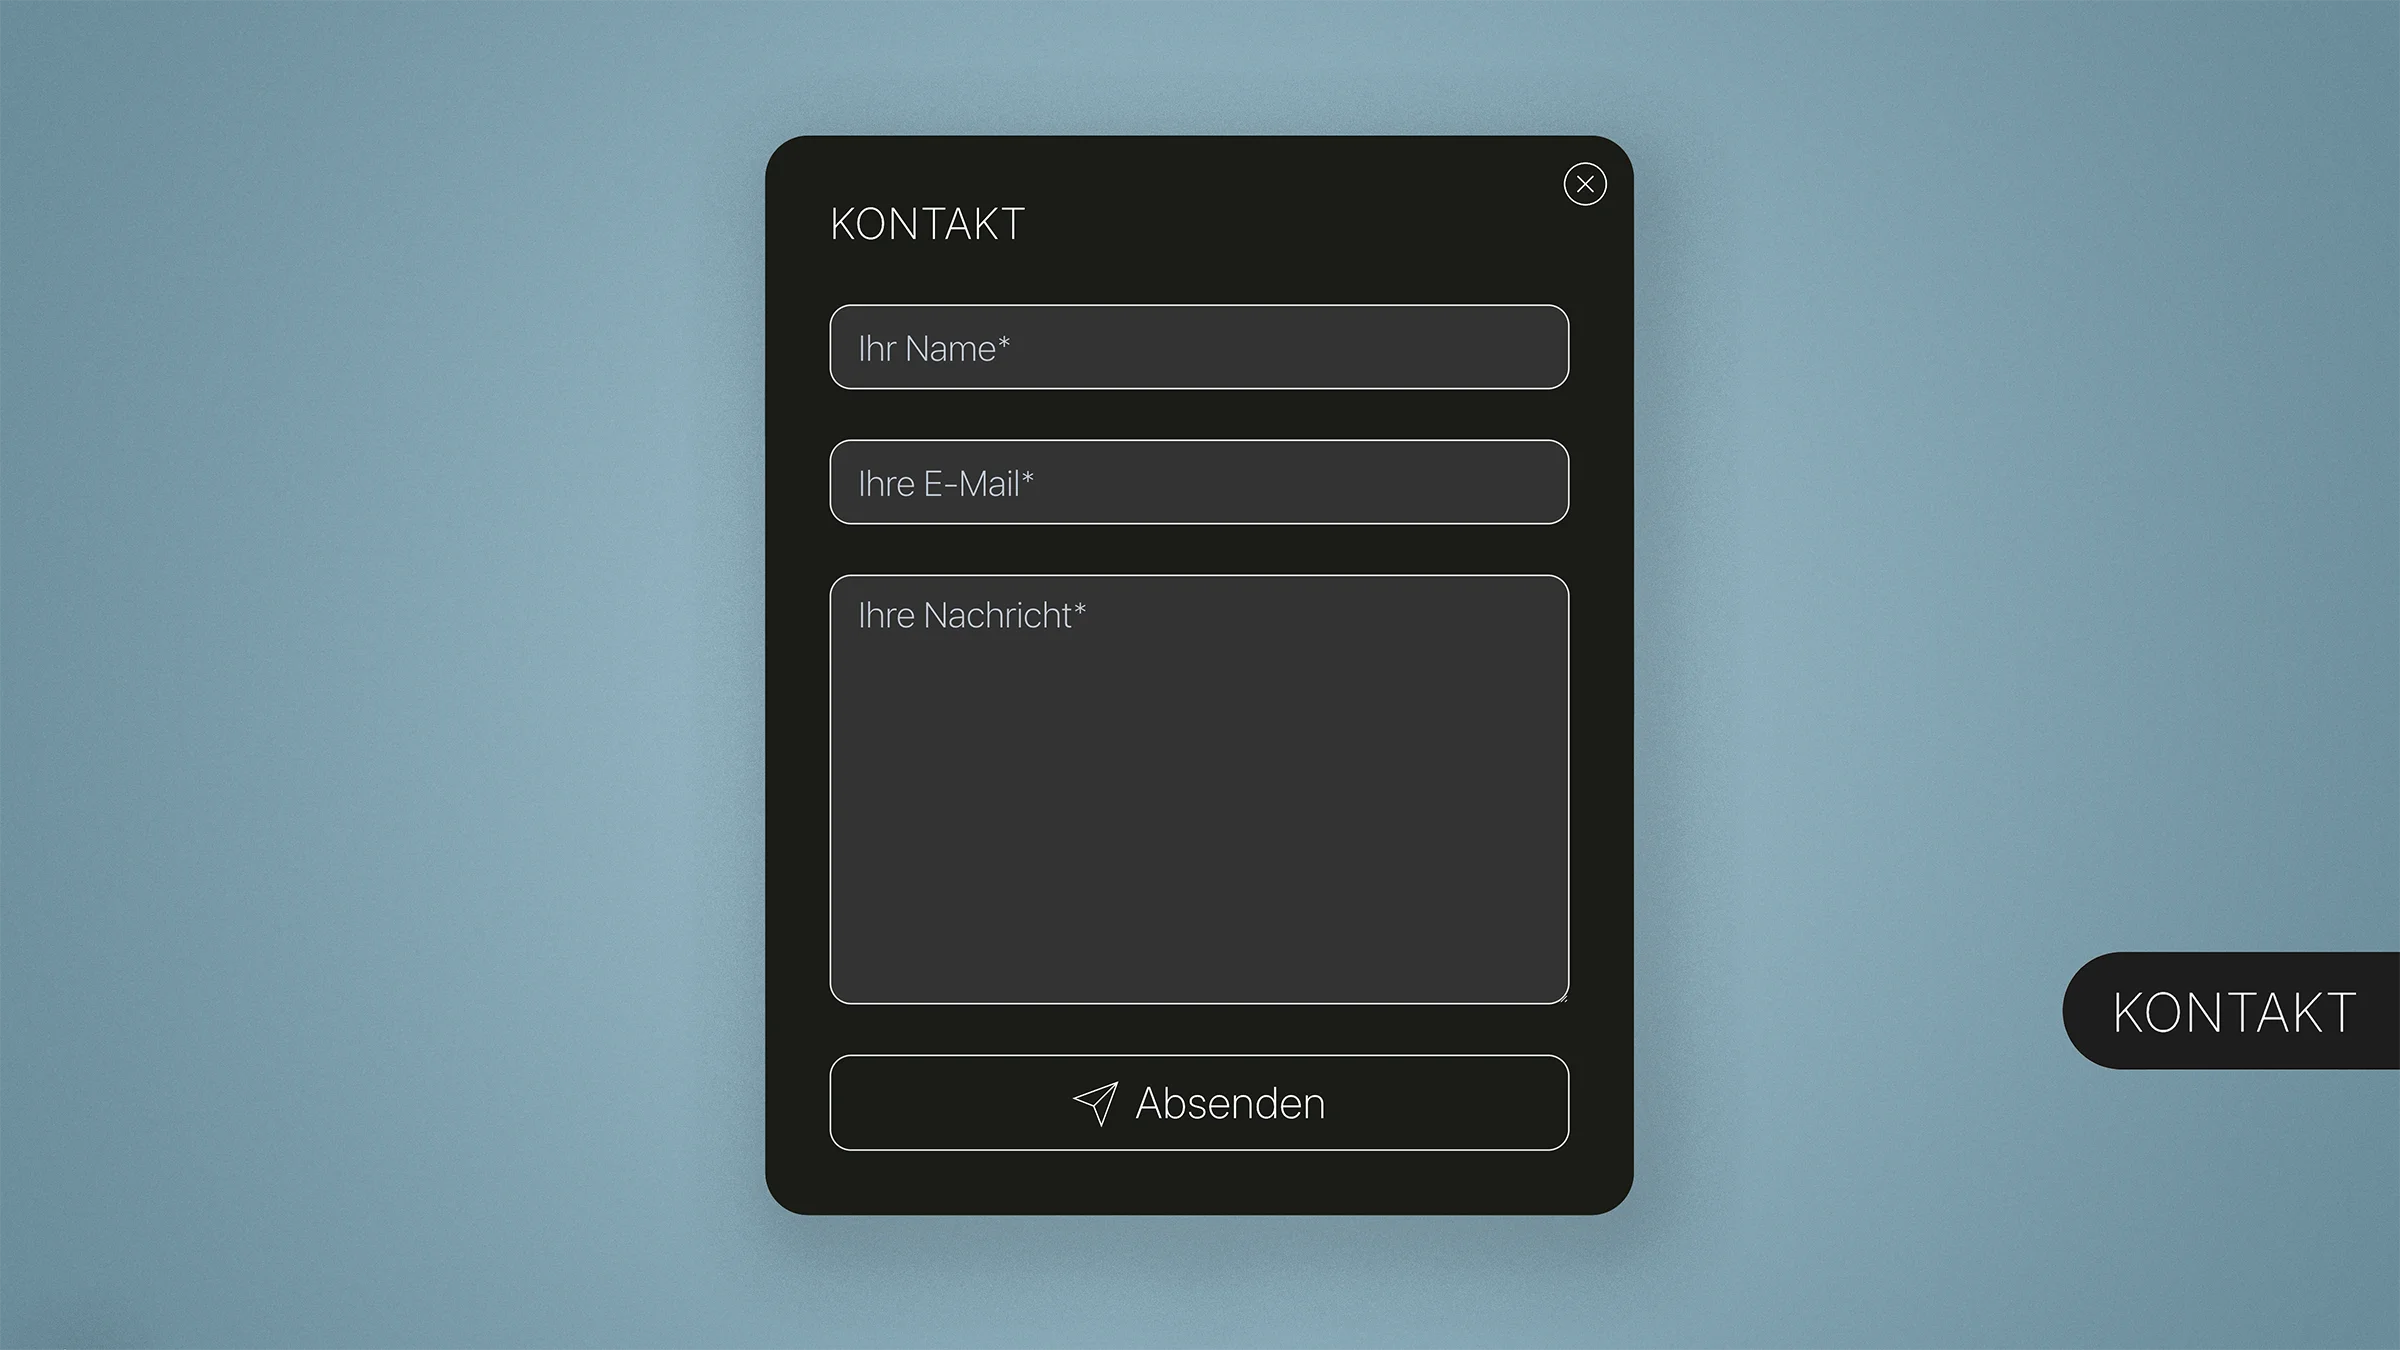
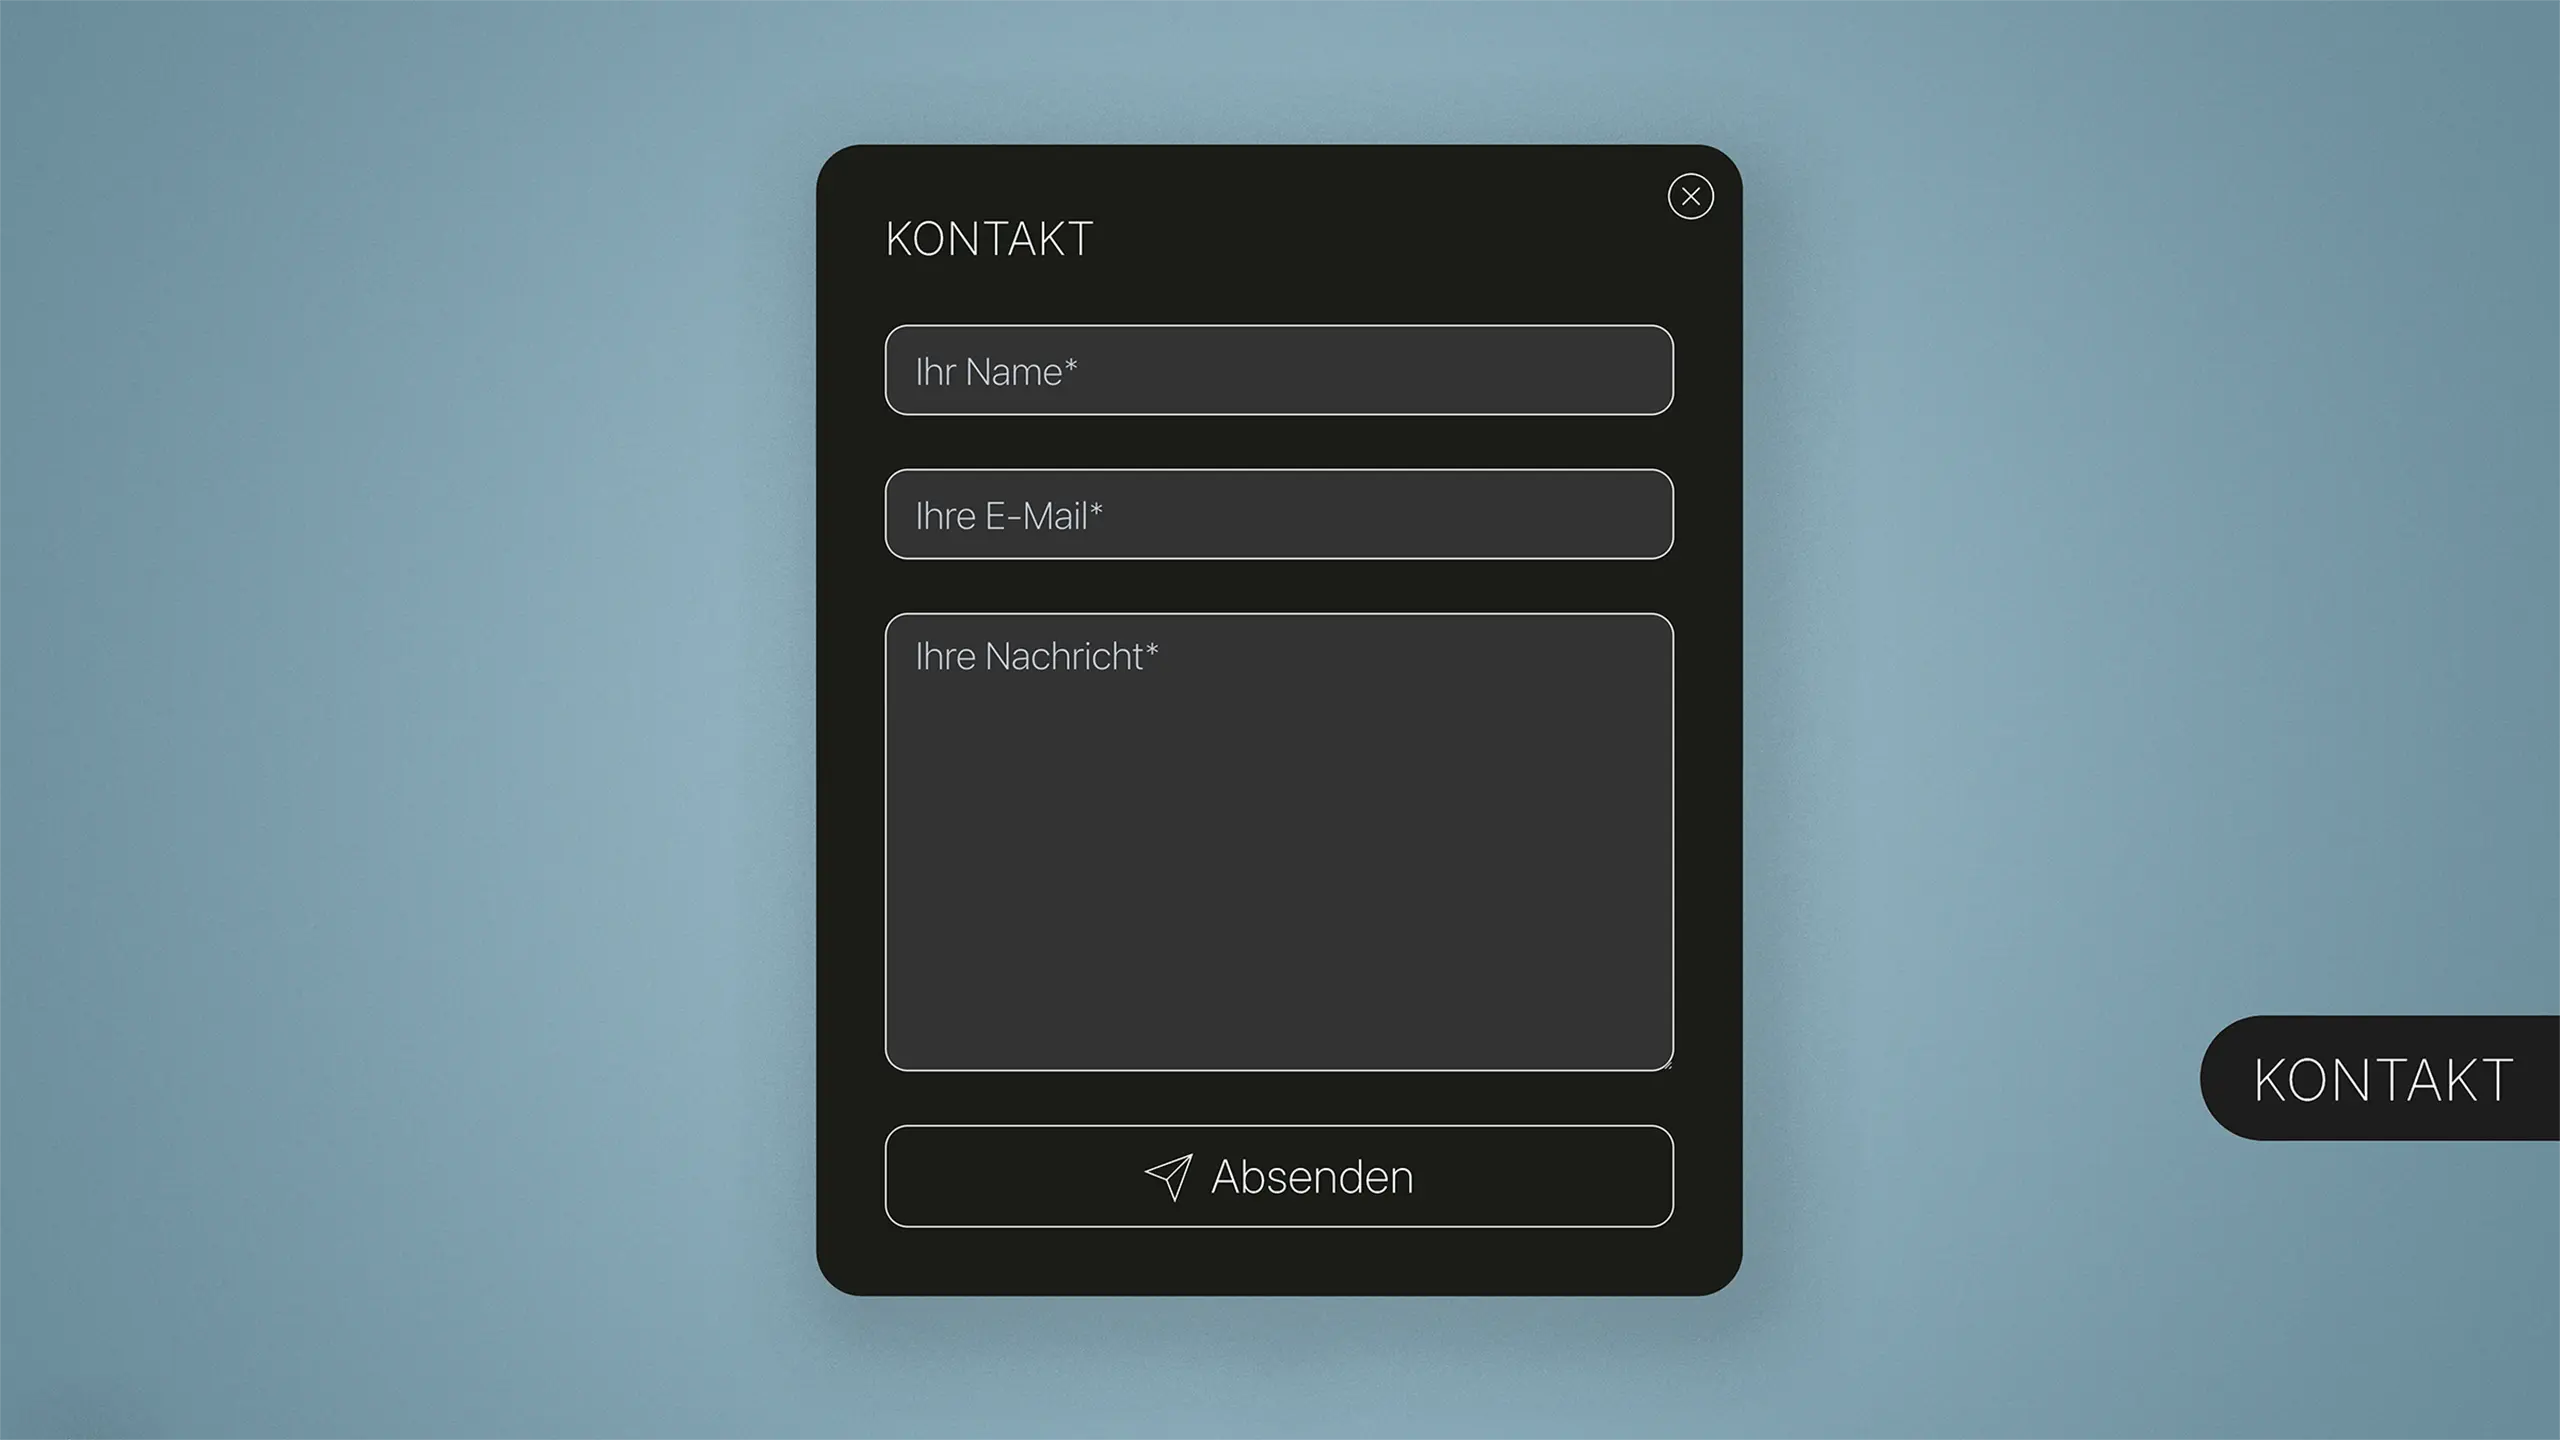
von png auf webp umstellen

Changed region(s): [[0.4688, 0.8089, 0.5312, 0.84], [0.3438, 0.1556, 0.4062, 0.1867]]

diff --git a/index.html b/index.html
@@ -108,7 +108,7 @@
 						class="card"
 						href="https://github.com/ulrich-digital/ud-personal-card-block"
 					>
-						<img src="./assets/ud-personal-card.png" />
+						<img src="./assets/ud-personal-card.webp" />
 						<h3>Personal Card Block</h3>
 						<p>
 							Block zur Darstellung von Personenkarten mit Bild
@@ -119,7 +119,7 @@
 						class="card"
 						href="https://github.com/ulrich-digital/ud-team-cards-block"
 					>
-						<img src="./assets/ud-team-card-block.png" />
+						<img src="./assets/ud-team-card-block.webp" />
 						<h3>Team Cards Block</h3>
 						<p>
 							Container- und Karten-Block zur Darstellung von
@@ -155,7 +155,7 @@
 						class="card"
 						href="https://github.com/ulrich-digital/ud-card-grid"
 					>
-						<img src="./assets/ud-card-grid.png" />
+						<img src="./assets/ud-card-grid.webp" />
 						<h3>Card Grid Block</h3>
 						<p>
 							Container- und Karten-Block für ein flexibles Grid
@@ -167,7 +167,7 @@
 						class="card"
 						href="https://github.com/ulrich-digital/ud-editorial-layout-block"
 					>
-						<img src="./assets/ud-editorial-layout-block.png" />
+						<img src="./assets/ud-editorial-layout-block.webp" />
 						<h3>Editorial Layout Block</h3>
 						<p>
 							Layout-Block zur freien Anordnung von
@@ -205,7 +205,7 @@
 						class="card"
 						href="https://github.com/ulrich-digital/ud-muotamap-block"
 					>
-						<img src="./assets/ud-muotamap.png" />
+						<img src="./assets/ud-muotamap.webp" />
 						<h3>MuotaMap Block</h3>
 						<p>
 							Interaktiver Karten-Block auf Basis von Leaflet.js.
@@ -218,7 +218,7 @@
 						class="card"
 						href="https://github.com/ulrich-digital/ud-glattalp-block"
 					>
-						<img src="./assets/ud-glattalp_frontend.png" />
+						<img src="./assets/ud-glattalp_frontend.webp" />
 						<h3>Glattalp Block</h3>
 						<p>
 							Zeigt aktuelle Messwerte der Glattalp (Temperatur,
@@ -230,7 +230,7 @@
 						class="card"
 						href="https://github.com/ulrich-digital/ud-teaser-card-in-cover-block"
 					>
-						<img src="./assets/ud-teaser-card-in-cover.png" />
+						<img src="./assets/ud-teaser-card-in-cover.webp" />
 
 						<h3>Teaser-Card in Cover Block</h3>
 						<p>
@@ -244,7 +244,7 @@
 						class="card"
 						href="https://github.com/ulrich-digital/ud-loop-block-muota"
 					>
-						<img src="./assets/ud-loop-block-muota.png" />
+						<img src="./assets/ud-loop-block-muota.webp" />
 						<h3>Projekte- & Magazin-Loop Block</h3>
 						<p>
 							Dynamischer Loop-Block für Projekte, Magazin &
@@ -256,7 +256,7 @@
 						class="card"
 						href="https://github.com/ulrich-digital/ud-loop-block"
 					>
-						<img src="./assets/ud-loop-block.png" />
+						<img src="./assets/ud-loop-block.webp" />
 						<h3>Loop Block</h3>
 						<p>
 							Gibt Beiträge, Seiten oder CPTs dynamisch im
@@ -268,7 +268,7 @@
 						class="card"
 						href="https://github.com/ulrich-digital/ud-content-for-loop-block"
 					>
-						<img src="./assets/ud-content-for-loop-block.png" />
+						<img src="./assets/ud-content-for-loop-block.webp" />
 						<h3>Content for Loop Block</h3>
 						<p>
 							Universeller Inhalts-Block für Loops wie News,
@@ -301,7 +301,7 @@
 						class="card"
 						href="https://github.com/ulrich-digital/ud-wohnung-block"
 					>
-						<img src="./assets/ud-wohnung-block.png" />
+						<img src="./assets/ud-wohnung-block.webp" />
 						<h3>Wohnung Block</h3>
 						<p>
 							Block zur Darstellung von Ferien- und Mietwohnungen
@@ -313,7 +313,7 @@
 						class="card"
 						href="https://github.com/ulrich-digital/ud-rating-block"
 					>
-						<img src="./assets/ud-rating-block-02.png" />
+						<img src="./assets/ud-rating-block-02.webp" />
 						<h3>Rating Block</h3>
 						<p>
 							Block für Nutzerbewertungen mit 5-Sterne-System und
@@ -338,7 +338,7 @@
 						class="card"
 						href="https://github.com/ulrich-digital/ud-link-block"
 					>
-						<img src="./assets/ud-link-block.png" />
+						<img src="./assets/ud-link-block.webp" />
 						<h3>Link Block</h3>
 						<p>
 							Block für interne, externe und Medien-Links.
@@ -351,7 +351,7 @@
 						class="card"
 						href="https://github.com/ulrich-digital/ud-tagged-links-block"
 					>
-						<img src="./assets/ud-tagged-links-block.png" />
+						<img src="./assets/ud-tagged-links-block.webp" />
 						<h3>Tag basierte Links Block</h3>
 						<p>
 							Zeigt alle Link-Blöcke an, die mit Tags verknüpft
@@ -374,7 +374,7 @@
 						href="https://github.com/ulrich-digital/ud-contact-card-associations-music-block"
 					>
 						<img
-							src="./assets/ud-contact-card-associations-music.png"
+							src="./assets/ud-contact-card-associations-music.webp"
 						/>
 						<h3>Contact Card Block</h3>
 						<p>Zeigt Kontaktinfos zu Vereinen oder Musikgruppen.</p>
@@ -384,7 +384,7 @@
 						class="card"
 						href="https://github.com/ulrich-digital/ud-filter-tag-block"
 					>
-						<img src="./assets/ud-filter-tag-block.png" />
+						<img src="./assets/ud-filter-tag-block.webp" />
 						<h3>Filter Tag Block</h3>
 						<p>
 							Klickbares Filter-Element mit Label und zugewiesenem
@@ -396,7 +396,7 @@
 						class="card"
 						href="https://github.com/ulrich-digital/ud-toggle-container-block"
 					>
-						<img src="./assets/ud-toggle-container-block.png" />
+						<img src="./assets/ud-toggle-container-block.webp" />
 						<h3>Toggle Container Block</h3>
 						<p>
 							Ein Container-Block mit zwei umschaltbaren
@@ -409,7 +409,7 @@
 						class="card"
 						href="https://github.com/ulrich-digital/ud-datetime-block"
 					>
-						<img src="./assets/ud-datetime-block_02.png" />
+						<img src="./assets/ud-datetime-block_02.webp" />
 						<h3>Datetime Block</h3>
 						<p>
 							Block zur Eingabe von Start- und Enddatum mit
@@ -421,7 +421,7 @@
 						class="card"
 						href="https://github.com/ulrich-digital/ud-breadcrumb-block"
 					>
-						<img src="./assets/ud-breadcrumb-block.png" />
+						<img src="./assets/ud-breadcrumb-block.webp" />
 						<h3>Breadcrumb Block</h3>
 						<p>Zeigt den Navigationspfad einer Seite an.</p>
 					</a>
@@ -430,7 +430,7 @@
 						class="card"
 						href="https://github.com/ulrich-digital/ud-projekt-verknuepfen-block"
 					>
-						<img src="./assets/ud-projekt-verknuepfen.png" />
+						<img src="./assets/ud-projekt-verknuepfen.webp" />
 						<h3>Projekt verknüpfen Block</h3>
 						<p>
 							Block zum Verknüpfen von Magazin-Beiträgen mit einem
@@ -443,7 +443,7 @@
 						href="https://github.com/ulrich-digital/ud-link-filter-container-block"
 					>
 						<img
-							src="./assets/ud_link_filter_container_block.png"
+							src="./assets/ud_link_filter_container_block.webp"
 						/>
 						<h3>Link Filter Container Block</h3>
 						<p>
@@ -457,7 +457,7 @@
 						href="https://github.com/ulrich-digital/ud_accordion_filter_container_block"
 					>
 						<img
-							src="./assets/ud_accordion_filter_container_block.png"
+							src="./assets/ud_accordion_filter_container_block.webp"
 						/>
 						<h3>Akkordeon Filter Container Block</h3>
 						<p>
@@ -471,7 +471,7 @@
 						class="card"
 						href="https://github.com/ulrich-digital/ud-wellen-grafik-block"
 					>
-						<img src="./assets/ud-wellen-grafik.png" />
+						<img src="./assets/ud-wellen-grafik.webp" />
 						<h3>Wellen-Grafik Block</h3>
 						<p>
 							Erzeugt eine anpassbare SVG-Welle als Trenner
@@ -506,7 +506,7 @@
 						class="card"
 						href="https://github.com/ulrich-digital/ud-shared-api"
 					>
-						<img src="./assets/ud-shared-api.png" />
+						<img src="./assets/ud-shared-api.webp" />
 						<h3>Shared Api</h3>
 						<p>
 							Gemeinsame REST-API für UD-Blöcke, z. B. zur
@@ -517,7 +517,7 @@
 						class="card"
 						href="https://github.com/ulrich-digital/ud-beitragsverfall"
 					>
-						<img src="./assets/ud-beitragsverfall.png" />
+						<img src="./assets/ud-beitragsverfall.webp" />
 						<h3>Beitragsverfall</h3>
 						<p>Steuert den Ablauf von Beiträgen automatisch.</p>
 					</a>
@@ -582,7 +582,7 @@
 						class="card"
 						href="https://github.com/ulrich-digital/ud-muota-messwerte-cron"
 					>
-						<img src="./assets/ud-muota-messwerte-cron.png" />
+						<img src="./assets/ud-muota-messwerte-cron.webp" />
 						<h3>Muota Messwerte Cron</h3>
 						<p>
 							Ruft regelmässig Messdaten (FOEN/LINDAS, Glattalp
